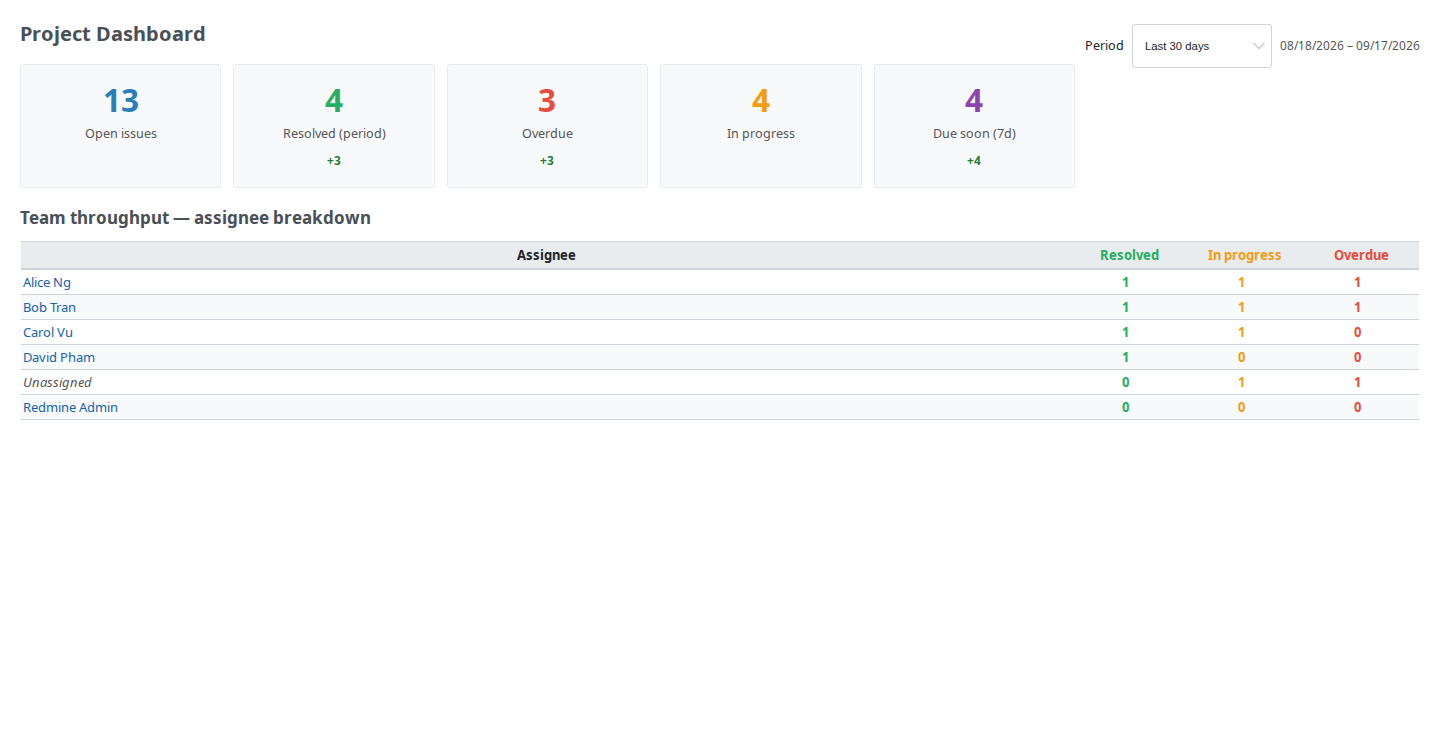
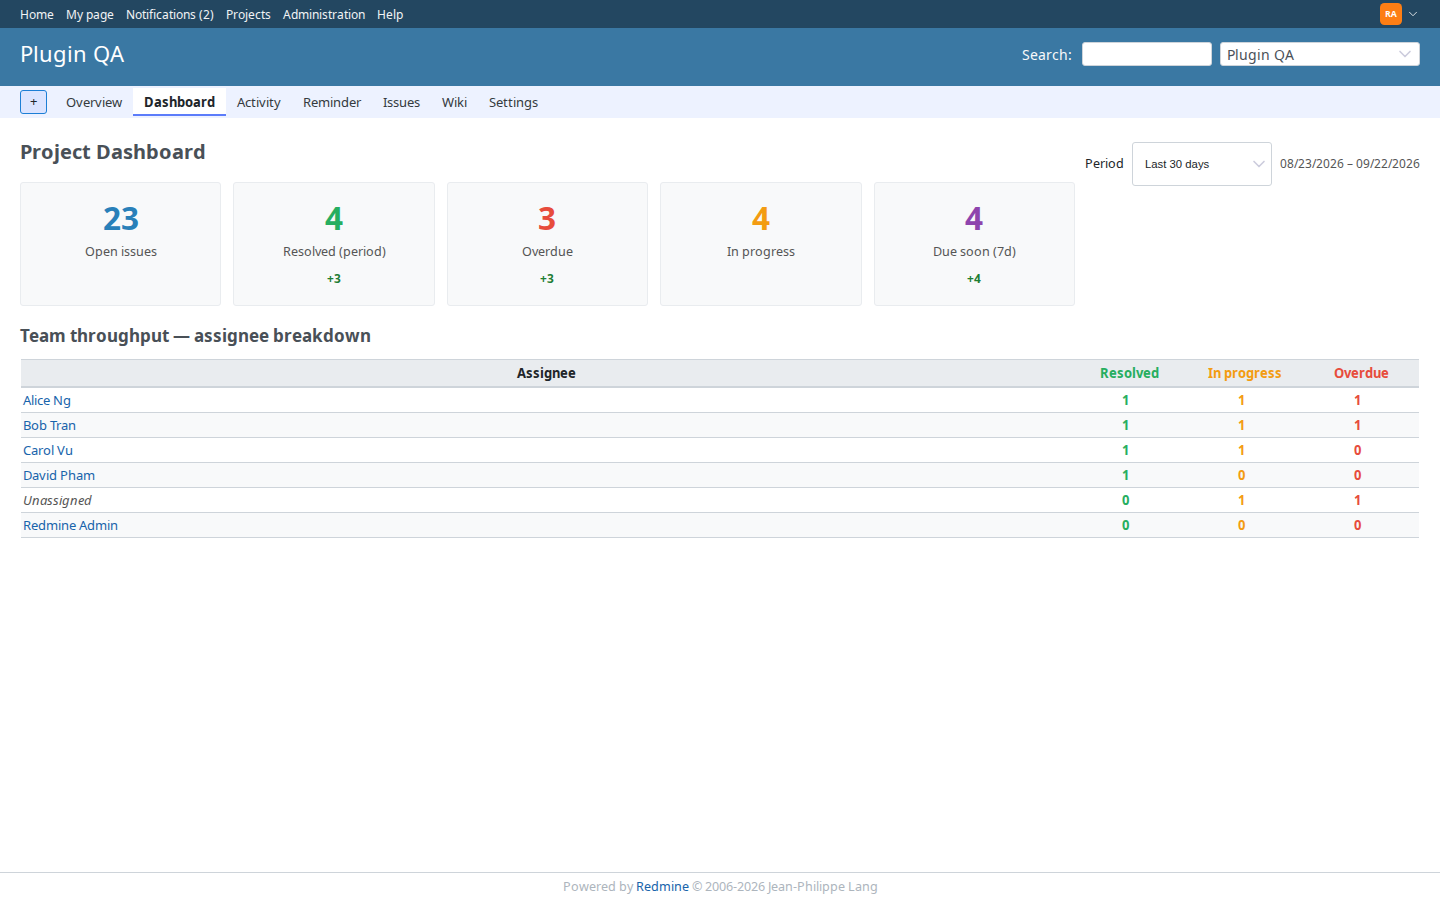
docs: replace thin README screenshots (P0)

diff --git a/README.md b/README.md
@@ -82,15 +82,13 @@ The plugin declares `requires_redmine version_or_higher: '5.0'`. Do not treat ca
 
 ## Screenshot
 
-Project Dashboard, KPI cards, assignee breakdown, overdue drill-down, and the plugin row (demo Redmine):
+Project → Dashboard on demo Redmine. The KPI cards (including Due soon) sit in the project page with the top menu and project tabs. The assignee table on that page includes Unassigned.
 
-![Project Dashboard with KPI cards and assignee table](screenshots/dashboard-overview.png)
+![Project dashboard with KPI cards](screenshots/kpi-cards.png)
 
-![KPI cards](screenshots/kpi-cards.png)
+The Overdue card opens the filtered issue list:
 
-![Assignee breakdown](screenshots/assignee-breakdown.png)
-
-![Overdue KPI drill-down](screenshots/kpi-drilldown-overdue.png)
+![Overdue KPI drill-down](screenshots/kpi-drilldown.png)
 
 ![Plugin listed under Administration → Plugins](screenshots/admin-plugins.png)
 
@@ -123,7 +121,7 @@ Install and smoke this plugin on your own Redmine: [custom dashboard install](ht
 | Automated tests beyond `ruby -c` | **Verified** — `test/unit` + `test/functional` in this repo (Playwright is a separate row) |
 | Installed + enabled on demo Redmine | **Verified** — mounted via `demo/plugins/` on the private monorepo demo stack; seed enables the module, grants `view_custom_dashboard`, and seeds KPI issues on `plugin-qa` |
 | E2E primary happy path | **Verified** — Playwright on that private harness (Dashboard tab, KPI cards, 7 vs 30 day period, overdue drill-down) |
-| UI screenshot in README | **Verified** — `screenshots/{admin-plugins,dashboard-overview,kpi-cards,assignee-breakdown,kpi-drilldown-overdue}.png` from that spec |
+| UI screenshot in README | **Verified** — `screenshots/{kpi-cards,kpi-drilldown,admin-plugins}.png` from that spec (full Redmine pages). `dashboard-overview.png`, `assignee-breakdown.png`, and `kpi-drilldown-overdue.png` are the same images under the older names. |
 | Redmine 5.1 / 6.x matrix | **Declared / untested** — this harness is one demo image, not a QA matrix |
 
 ## Community support

diff --git a/screenshots/README.md b/screenshots/README.md
@@ -6,10 +6,11 @@ Refresh is **private-monorepo only** (`redmineshop/redmineshop` harness). A publ
 
 Output:
 
-- `admin-plugins.png` — Administration → Plugins row (no Configure link)
-- `dashboard-overview.png` — project Dashboard tab with period filter, KPIs, assignee table
-- `kpi-cards.png` — five live KPI cards
-- `assignee-breakdown.png` — team throughput table including Unassigned
-- `kpi-drilldown-overdue.png` — Overdue card opening the filtered issues list
+- `kpi-cards.png` — full project page: top menu, project tabs, five KPI cards (including Due soon), assignee table
+- `dashboard-overview.png` and `assignee-breakdown.png` — same image as `kpi-cards.png` (older README paths)
+- `kpi-drilldown.png` — filtered issue list after the Overdue card
+- `kpi-drilldown-overdue.png` — same image as `kpi-drilldown.png`
+- `admin-plugins.png` — Administration → Plugins page (no Configure link)
+- `empty-state.png` — not captured this run (optional; the seeded project has issues)
 
 This harness covers the project Dashboard UI. It is **one** demo Redmine image, not a 5.1 / 6.x matrix.
